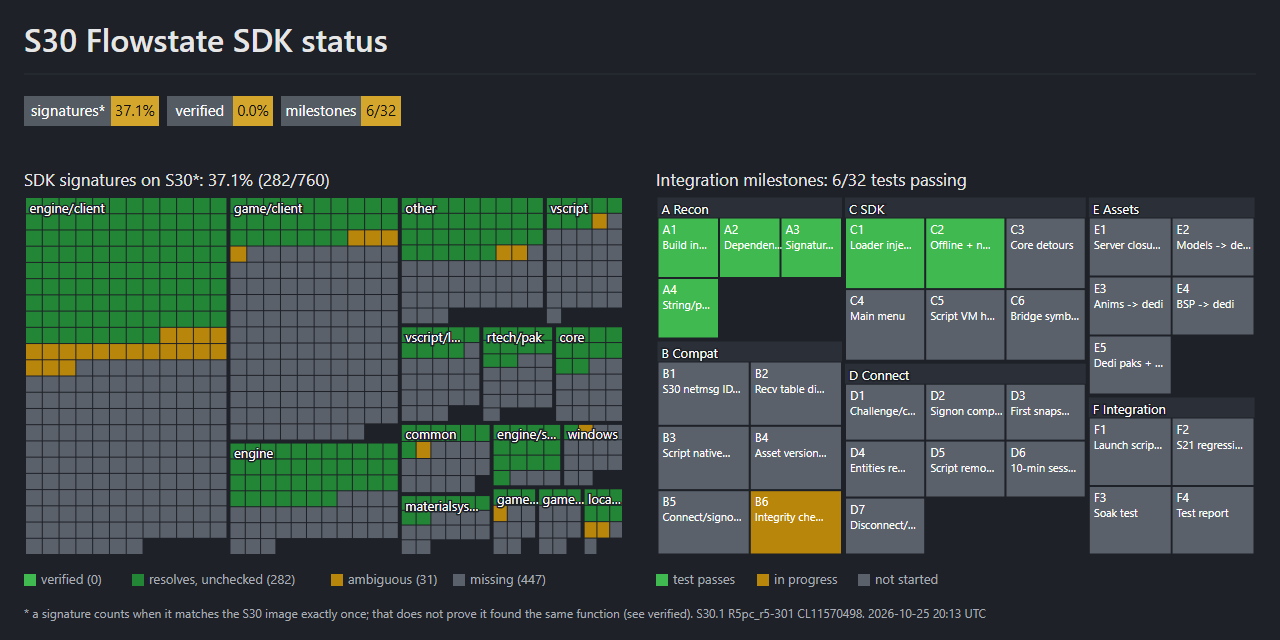
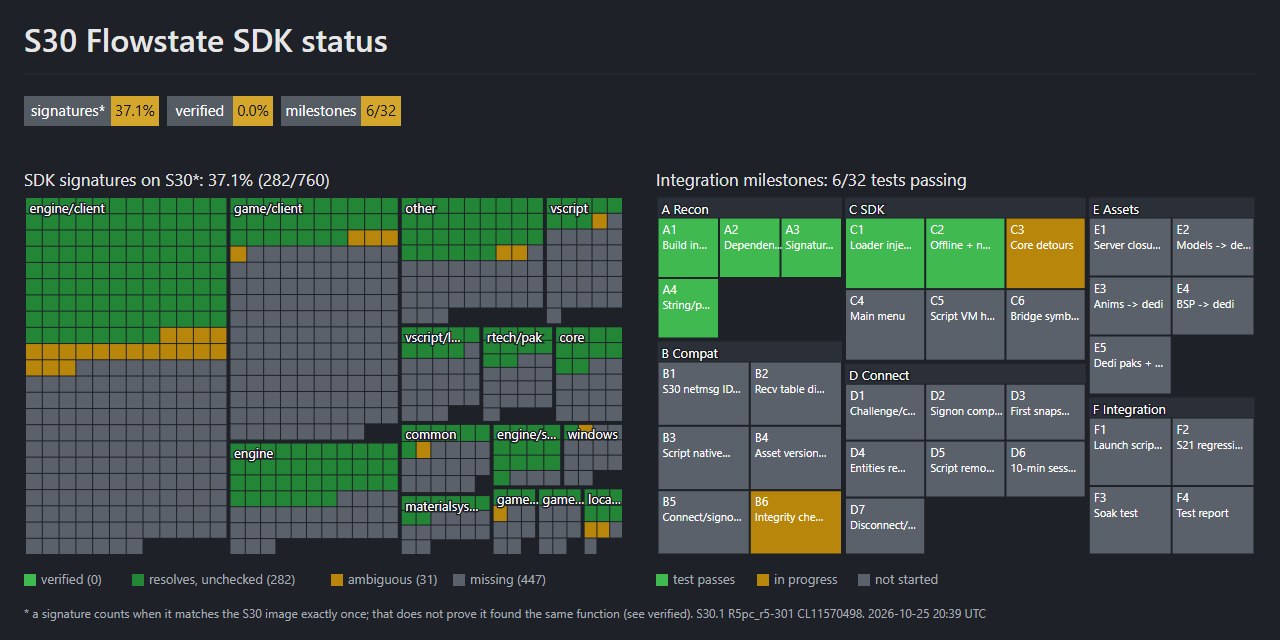
s30: document the S30 print path and console bring-up
docs/07 maps the engine print chain (CoreMsg -> CoreMsgV -> LogV ->
LogDirect), the script print callbacks and VM state table, and how each
was verified at runtime. ida_query gains xrefs and strexact.

Changed region(s): [[0.7812, 0.3438, 0.875, 0.4688]]

diff --git a/s30/tools/ida_query.py b/s30/tools/ida_query.py
@@ -2,9 +2,11 @@
 
 usage: ida_query.py <db.i64> <command> [args...]  (several commands may be chained with ' ; ')
   strxref <text>        functions referencing a string that contains <text> (RVA + name)
+  strexact <text>       strings exactly equal to <text>, with xrefs
   decomp <rva|name>     Hex-Rays pseudocode of the function containing <rva>
   disasm <rva> [n]      n instructions from <rva>
   callers <rva>         call sites of the function containing <rva>
+  xrefs <rva> [n]       all code + data references to the function containing <rva>
   name <rva> <name>     rename the function at <rva> (saved)
 RVAs are hex, relative to the image base.
 """
@@ -55,6 +57,15 @@ def cmd_strxref(text):
 			break
 
 
+def cmd_strexact(text):
+	"""Strings equal to <text> (short names like 'echo' that substring search drowns)."""
+	for s in idautils.Strings():
+		if str(s) == text:
+			print("string %s %r" % (rva(s.ea), text))
+			for x in idautils.XrefsTo(s.ea):
+				print("   xref %s in %s" % (rva(x.frm), fname(x.frm)))
+
+
 def cmd_decomp(target):
 	e = ea(target)
 	f = ida_funcs.get_func(e)
@@ -82,6 +93,16 @@ def cmd_callers(target):
 		print("   call %s in %s" % (rva(x), fname(x)))
 
 
+def cmd_xrefs(target, limit="40"):
+	"""All references (code and data) to the function containing <rva>."""
+	f = ida_funcs.get_func(ea(target))
+	start = f.start_ea if f else ea(target)
+	refs = list(idautils.XrefsTo(start))
+	print("   %d refs" % len(refs))
+	for x in refs[: int(limit)]:
+		print("   %s %s in %s" % ("code" if x.iscode else "data", rva(x.frm), fname(x.frm)))
+
+
 def cmd_name(target, new):
 	ida_name.set_name(ea(target), new, ida_name.SN_FORCE)
 	print("named", target, new)
@@ -105,7 +126,7 @@ def main():
 		if not fn:
 			print("unknown command", parts[0])
 			continue
-		fn(*parts[1:]) if parts[0] != "strxref" else fn(chunk.split(None, 1)[1])
+		fn(*parts[1:]) if parts[0] not in ("strxref", "strexact") else fn(chunk.split(None, 1)[1])
 		save = save or parts[0] == "name"
 	idapro.close_database(save=save)
 

diff --git a/s30/docs/07-console-and-logging.md b/s30/docs/07-console-and-logging.md
@@ -1,0 +1,61 @@
+# 7. SDK console, engine log and script print capture (2026-10-25)
+
+## Engine output: where S30 prints
+
+| | S30.1 RVA | role |
+|---|---|---|
+| `CoreMsg(type, fmt, ...)` | 0x269B40 | variadic engine print, **241 references** |
+| `CoreMsgV(type, fmt, args)` | 0xD39C30 | dispatcher: types 0–2 → `LoggingSystem_LogV`; 3/4 formatted then dropped; 5 = fatal `Error()`; 9 ignored |
+| `LoggingSystem_LogV(ch, sev, fmt, args)` | 0x5C7680 | drops anything below the channel's minimum severity (channel record +16) |
+| `CLoggingSystem::LogDirect(sys, ch, sev, color, text)` | 0x5C6C40 | sinks: stdout (`+0xFE49`, `-logtostdout`), `-logtofile` handle (`+0xFE40`), `OutputDebugStringA` (`+0xFE38`, `-logtodebugoutput`), then every listener; sev 3 exits |
+
+The logging-system object is `sub_1405C6AB0()`. `*(int*)sys` is the channel count, and channels are 56-byte
+`LoggingChannel_t` records from `+8` (name at `+24 + 56*ch`). LauncherMain still parses `-logtofile`,
+`-logflush`, `-logtostdout` and `-logtodebugoutput`.
+
+**Retail emits almost nothing.** A 45 s boot to the title screen produced one line, a type-3 developer message
+(`Couldn't open ... psoCache.pso`) that retail would drop anyway. `echo` exists as a ConCommand, but its handler is
+`return 0` in retail.
+
+client_s30 hooks `CoreMsgV`, which sees the text before any filtering, and `LogDirect`, for code that logs to the
+LoggingSystem directly. A thread-local flag stops double logging. Lines go to the log as `[ENGINE][t<type>]` and to the
+console, coloured by severity.
+
+## Script output
+
+| | S30.1 | S21 DX12 |
+|---|---|---|
+| print callback, SERVER/CLIENT VMs | 0xF5B1D0 | 0xE286C0 (one callback) |
+| print callback, UI VM | 0xF5B2B0 | — |
+| VM setup that installs them (`"PrintFunc"`, `"PrintFunc_Client"`, `"PrintFunc_UI"`) | 0xF575F0 | 0xE24780 |
+| per-VM state table (print pointer at `+17016`) | 0x40F48C8 | — |
+| `printl` native (base library table, `.data` 0x277A430) | 0xF33D90 | |
+
+Retail print callbacks only format into a per-VM capture buffer. client_s30 detours both, logs `[SCRIPT][VM]` lines,
+and forwards `"%s"`. The two callbacks share their first 0x6D bytes, so each signature extends into the body.
+The S21 signature misses on S30 because S21 has `xor` where S30 has `mov r9, rbx`.
+
+**Verified at runtime:** the table resolved from the UI callback's own `lea` equals 0x40F48C8. At the title screen only
+the UI VM exists, and its print pointer is the hooked 0xF5B2B0. In 40 s the UI scripts called `printl` **0 times**
+(counted on the native itself), so nothing prints in this state. Retail has no `script`/`script_ui` command to force a
+print, so the capture fires once scripts that print run (Flowstate's, later).
+
+## Console
+
+`console_s30` opens a "R5F S30 Client" console window (skip it with `-s30_noconsole`). Engine, script and SDK lines
+appear in different colours; network-guard lines are rate-limited per destination (first 3, then every 500th).
+Input uses `ReadConsoleA` → `Cbuf_AddText(0, line, kCommandSrcCode)`, as the S21 client does.
+
+`Cbuf_AddText` is S30.1 0x248760 (S21 DX12 0x223D90): identical body, same lock-protected buffer, same 9872-byte
+per-target stride. Found with the S21 SDK signature, which is unique on S30.
+
+**Verified end to end** with `-s30_selftest`: `quit` sent through `Cbuf_AddText` shut the engine down cleanly
+(LauncherMain returned into WinMain at 0x589FC6, then `ExitProcess(0)`), where every other run stayed up until stopped.
+The console window was confirmed open and visible.
+
+Logs: `tests\E3_console\`.
+
+## Next
+- Retail strips most command bodies (`echo`), so useful console commands are SDK-provided. Port the SDK
+  ConCommand/ConVar layer once the S30 ConVar ABI is checked (ICommandLine already lost a vtable slot).
+- An ImGui overlay console (the S21 SDK has one) needs D3D12 present hooks on S30; later.

diff --git a/s30/PROGRESS.md b/s30/PROGRESS.md
@@ -33,15 +33,25 @@
   app (now refused).
 - Census tool: fixed name attribution (names came from the previous statement); counts unchanged.
 
+### 2026-10-25: SDK console + engine/script output (docs/07)
+- Engine print path mapped: CoreMsg 0x269B40 (241 refs) -> CoreMsgV 0xD39C30 -> LoggingSystem_LogV 0x5C7680
+  (severity filter) -> LogDirect 0x5C6C40. client_s30 hooks CoreMsgV + LogDirect; retail emits almost nothing.
+- SDK console window "R5F S30 Client": engine/script/SDK output, commands via Cbuf_AddText (0x248760, identical to
+  S21). Verified end to end: `quit` from the console path shuts the engine down cleanly.
+- Script print callbacks hooked (0xF5B1D0 client/server, 0xF5B2B0 UI); the UI VM's print pointer is confirmed to be
+  the hooked one, but retail UI scripts call printl 0 times at the title screen.
+- Retail strips command bodies (echo = return 0): useful commands must come from the SDK.
+
 ## Done
 - A1–A4 (inventory, architecture, census, strings diff).
 - E0 boot probe.
 - C1 loader → client_s30, C2 offline + network guard.
+- SDK console with engine log capture and command input (part of C3).
 
 ## Open issues
 - Not yet known whether S30 checks its own image or import table (B6).
 - Flowstate client/UI scripts vs S30 natives: biggest unknown (B3).
 
 ## Next action
-SDK console and engine print capture on S30 (find the real Script_PrintFunc / engine spew on S30.1), then take
-control of the UI script flow (loose-script override of `script_ui.rpak`) toward C4 (main menu with SDK console).
+Check the S30 ConVar/ConCommand ABI against S21 (ICommandLine already lost a vtable slot), then register the first
+SDK ConCommands in client_s30 so the console has working commands; after that, script loading (B3/C5).

diff --git a/s30/status/STATUS.md b/s30/status/STATUS.md
@@ -1,6 +1,6 @@
 # S30 port status
 
-Generated by `s30/tools/make_status.py` (2026-10-25 20:13 UTC). Image: `status.svg`.
+Generated by `s30/tools/make_status.py` (2026-10-25 20:39 UTC). Image: `status.svg`.
 
 ## Signatures
 
@@ -41,7 +41,7 @@ Signatures that match the S21 client image exactly once, by subsystem.
 | B6 | B Compat | Integrity checks | wip | S30 code-integrity / import checks found or ruled out |
 | C1 | C SDK | Loader injects | done | patched S30 copy loads loader.dll -> client_s30.dll; S30_EarlyInit and SDK_Init both log |
 | C2 | C SDK | Offline + net guard | done | no non-loopback connection during boot (guard log + netstat) |
-| C3 | C SDK | Core detours | todo | tier0/tier1/convar/cmd/filesystem resolve and attach on S30 |
+| C3 | C SDK | Core detours | wip | tier0/tier1/convar/cmd/filesystem resolve and attach on S30 |
 | C4 | C SDK | Main menu | todo | client reaches the main menu with SDK console |
 | C5 | C SDK | Script VM hooks | todo | client/UI VMs compile Flowstate scripts without errors |
 | C6 | C SDK | Bridge symbols | todo | every NetObs symbol resolves and is verified on S30 |

diff --git a/s30/README.md b/s30/README.md
@@ -14,6 +14,7 @@ client does today. Local, offline use only.
 | [docs/04-plan.md](docs/04-plan.md) | minimum change set, ranked risks, first experiment, phases and milestones |
 | [docs/05-e0-boot-probe.md](docs/05-e0-boot-probe.md) | first runtime experiment: injection, network guard, boot |
 | [docs/06-loader-client-s30.md](docs/06-loader-client-s30.md) | loader.dll on S30, the client_s30 product, offline platform patches |
+| [docs/07-console-and-logging.md](docs/07-console-and-logging.md) | engine print path, script print callbacks, SDK console |
 | [PROGRESS.md](PROGRESS.md) | progress log, open issues, next action |
 | [status/STATUS.md](status/STATUS.md) | table view of the status image |
 
